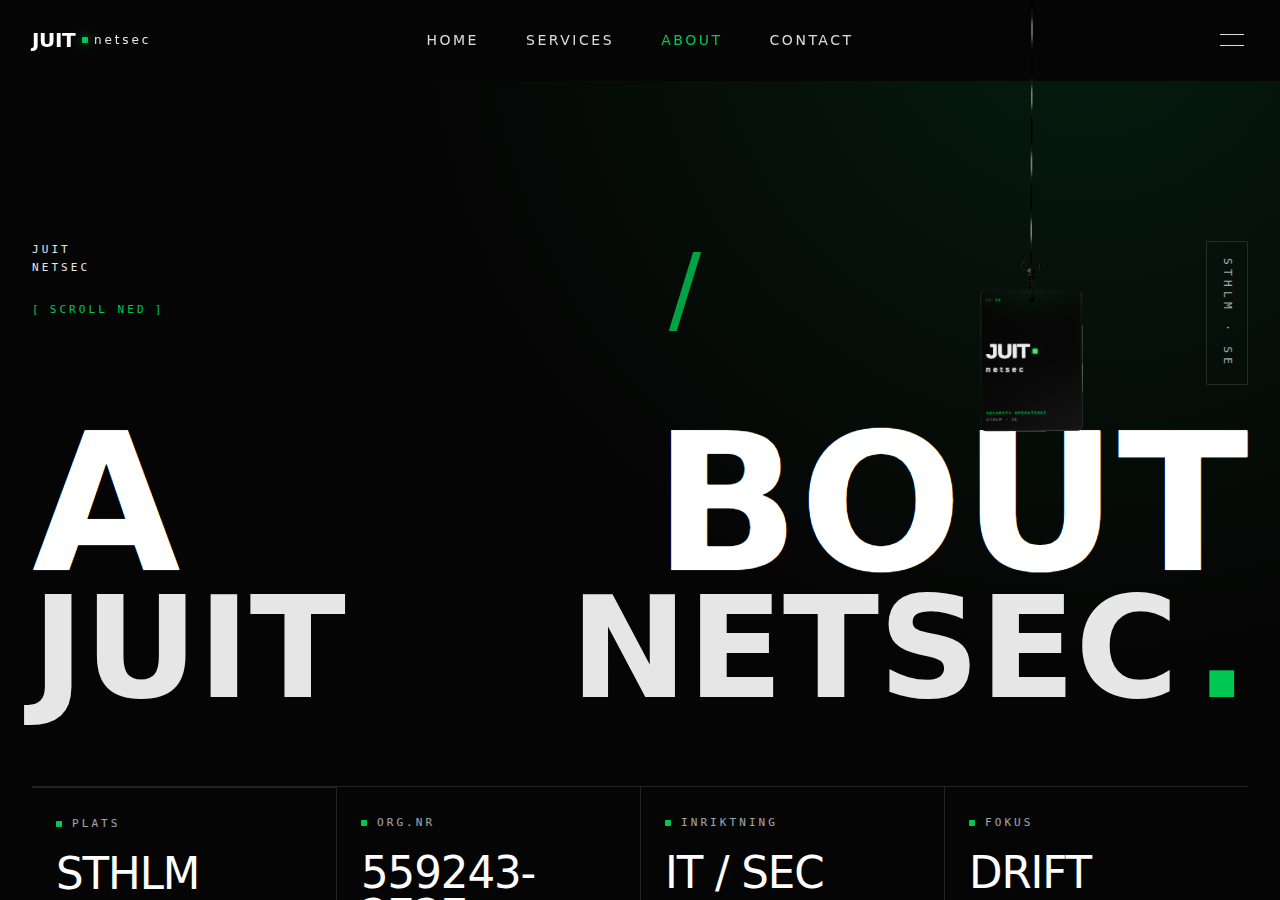
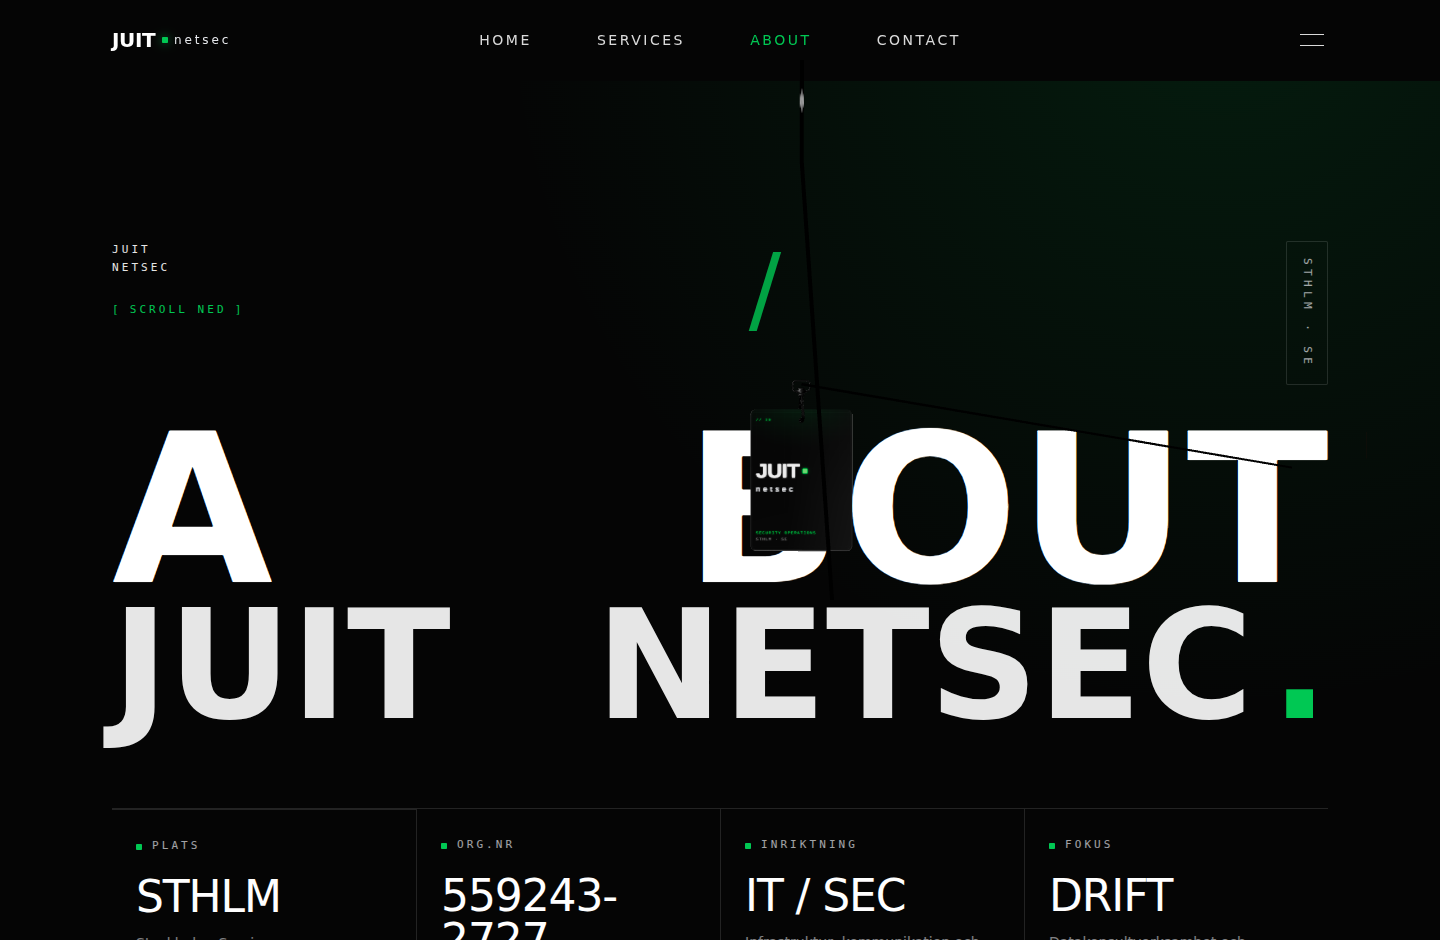
True equal-radius half-circle orbit: bigger radius, more bounce
The leftover safety box was clamping the sides before the radius, so reach
wasn't equal in all directions. Made the radial constraint the sole limit so the
card now moves an equal distance from the pivot in every direction (a real
half-circle centred where the rope starts), and widened the canvas (360 -> 980)
so the whole half-circle fits without clipping. Pivot is horizontally centred in
the canvas; nav links/hamburger sit above it (z-30) and stay clickable
(verified 1024/1280/1440).

- Bigger radius (ORBIT_R 6.6) and longer rope (1.6 -> 1.7)
- More bounce: damping 2.5 -> 1.2
- Verified: down stops at the radius, left/right swing the same distance along
  the arc; nothing clips.

Claude-Session: https://claude.ai/code/session_01KWNApueSH4xGrLbCnQC4bA

diff --git a/src/components/Navbar/CompanyBadgeNavbar.jsx b/src/components/Navbar/CompanyBadgeNavbar.jsx
@@ -41,11 +41,15 @@ const BACK_UV_RECT = { x: 0.5, y: 0, w: 0.5, h: 0.757 };
 // kortet svänger längs en båge precis som på ett verkligt rep i stället för i
 // en rektangel. En diskret canvas-säkerhetsruta (SAFE_*) ligger kvar som yttre
 // skydd så kortet aldrig kan klippas av kanten i extremlägena.
-const PIVOT = { x: 0, y: 4.8, z: 0 };
-const ORBIT_R = 6.2;
-const SAFE_X = 1.95;
-const SAFE_Y_TOP = 3.4;
-const SAFE_Y_BOTTOM = -3.2;
+// Mittpunkten ligger där repet börjar (PIVOT). Kortet får gå lika långt
+// (ORBIT_R) från mittpunkten i ALLA riktningar inom den nedre halvan -> en äkta
+// halvcirkel. Canvasen är bred nog att rymma hela halvcirkeln så den radiella
+// gränsen är den enda som styr (SAFE_* ligger utanför radien som ren nödgräns).
+const PIVOT = { x: 0, y: 3.8, z: 0 };
+const ORBIT_R = 6.6;
+const SAFE_X = 6.7;
+const SAFE_Y_TOP = 4.0;
+const SAFE_Y_BOTTOM = -4.0;
 const clamp = (v, min, max) => Math.min(Math.max(v, min), max);
 
 export default function CompanyBadgeNavbar({
@@ -109,8 +113,8 @@ function Band({
   const ang = new THREE.Vector3();
   const rot = new THREE.Vector3();
   const dir = new THREE.Vector3();
-  // Lägre dämpning = mer elastiskt, gungande rep.
-  const segmentProps = { type: 'dynamic', canSleep: true, colliders: false, angularDamping: 2.5, linearDamping: 2.5 };
+  // Låg dämpning = mer elastiskt, studsande rep som gungar längre.
+  const segmentProps = { type: 'dynamic', canSleep: true, colliders: false, angularDamping: 1.2, linearDamping: 1.2 };
   const { nodes, materials } = useGLTF(cardGLB, DRACO_PATH);
   const texture = useTexture(lanyardImage || lanyard);
   const frontTex = useTexture(frontImage || BLANK_PIXEL);
@@ -168,9 +172,9 @@ function Band({
   const [dragged, drag] = useState(false);
   const [hovered, hover] = useState(false);
 
-  useRopeJoint(fixed, j1, [[0, 0, 0], [0, 0, 0], 1.4]);
-  useRopeJoint(j1, j2, [[0, 0, 0], [0, 0, 0], 1.4]);
-  useRopeJoint(j2, j3, [[0, 0, 0], [0, 0, 0], 1.4]);
+  useRopeJoint(fixed, j1, [[0, 0, 0], [0, 0, 0], 1.7]);
+  useRopeJoint(j1, j2, [[0, 0, 0], [0, 0, 0], 1.7]);
+  useRopeJoint(j2, j3, [[0, 0, 0], [0, 0, 0], 1.7]);
   useSphericalJoint(j3, card, [
     [0, 0, 0],
     [0, 1.5, 0],
@@ -236,18 +240,18 @@ function Band({
   return (
     <>
       {/* Upphängning nära toppen så lanyarden ser ut att hänga från navbaren. */}
-      <group position={[0, 4.8, 0]}>
+      <group position={[0, 3.8, 0]}>
         <RigidBody ref={fixed} {...segmentProps} type="fixed" />
-        <RigidBody position={[0.3, -0.5, 0]} ref={j1} {...segmentProps}>
+        <RigidBody position={[0.2, -1.5, 0]} ref={j1} {...segmentProps}>
           <BallCollider args={[0.1]} />
         </RigidBody>
-        <RigidBody position={[0.5, -1.0, 0]} ref={j2} {...segmentProps}>
+        <RigidBody position={[0.35, -3.0, 0]} ref={j2} {...segmentProps}>
           <BallCollider args={[0.1]} />
         </RigidBody>
-        <RigidBody position={[0.7, -1.5, 0]} ref={j3} {...segmentProps}>
+        <RigidBody position={[0.5, -4.4, 0]} ref={j3} {...segmentProps}>
           <BallCollider args={[0.1]} />
         </RigidBody>
-        <RigidBody position={[0.9, -2.0, 0]} ref={card} {...segmentProps} type={dragged ? 'kinematicPosition' : 'dynamic'}>
+        <RigidBody position={[0.6, -5.4, 0]} ref={card} {...segmentProps} type={dragged ? 'kinematicPosition' : 'dynamic'}>
           <CuboidCollider args={[0.8, 1.125, 0.01]} />
           <group
             scale={2.25}

diff --git a/src/components/Navbar/CompanyBadgeNavbar.css b/src/components/Navbar/CompanyBadgeNavbar.css
@@ -7,7 +7,7 @@
   position: absolute;
   top: 0;
   right: 36px;
-  width: 360px;
+  width: 980px;
   height: 600px;
   z-index: 20;
   pointer-events: none;